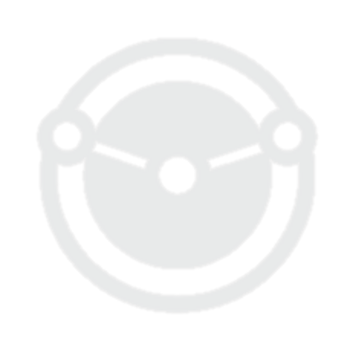
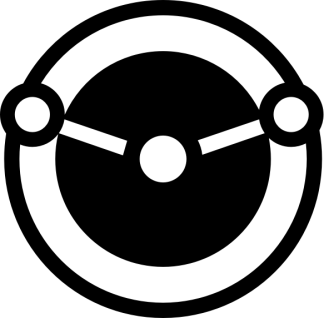
FIBO-115 Create graphics for EDMC automotive website continuation of task: FIBO-110 Create automotive-vue

diff --git a/automotive-vue/src/views/Home.vue b/automotive-vue/src/views/Home.vue
@@ -8,7 +8,7 @@
 
                 <h3>Breaking News: W3C Automotive Ontology Community Group</h3>
 
-                <img src="../assets/img/aowg_logo.png" class="fibo-logo img-fluid" />
+                <img src="../assets/img/aowg_logo.png" class="automotive-logo img-fluid" />
 
                 <p>
                     On May 8, 2015, we founded a W3C Community Group. In the coming weeks, we will gradually migrate this
@@ -51,5 +51,11 @@
 </script>
 
 <style lang="scss" scoped>
-
+.automotive-logo{
+  border: 1px solid map-get($colors-map, 'medium-grey');
+  float: left;
+  width: 400px;
+  padding: 20px;
+  margin: 0 40px 40px 0;
+}
 </style>

diff --git a/automotive-vue/src/App.vue b/automotive-vue/src/App.vue
@@ -62,13 +62,6 @@ hr {
   margin-top: 20px;
   margin-bottom: 20px;
 }
-
-.fibo-logo{
-  border: 1px solid map-get($colors-map, 'medium-grey');
-  float: left;
-  padding: 20px;
-  margin: 0 40px 40px 0;
-}
 .fill-image-site {
   width: 324px;
   height: 388px;
@@ -84,6 +77,7 @@ hr {
   position: absolute;
   top: 40%;
   left: 10%;
+  opacity: 0.07;
 }
 
 @media (max-width: 1559px) {

diff --git a/automotive-vue/src/styles/setup/_variables.scss b/automotive-vue/src/styles/setup/_variables.scss
@@ -90,6 +90,6 @@ $colors-map: (
         'grey': #888,
         'darker-gray': #707070,
         'dark-grey': #455560,
-        'blue': #2a83be,
+        'blue': #025394,
         'black': #000,
 );
